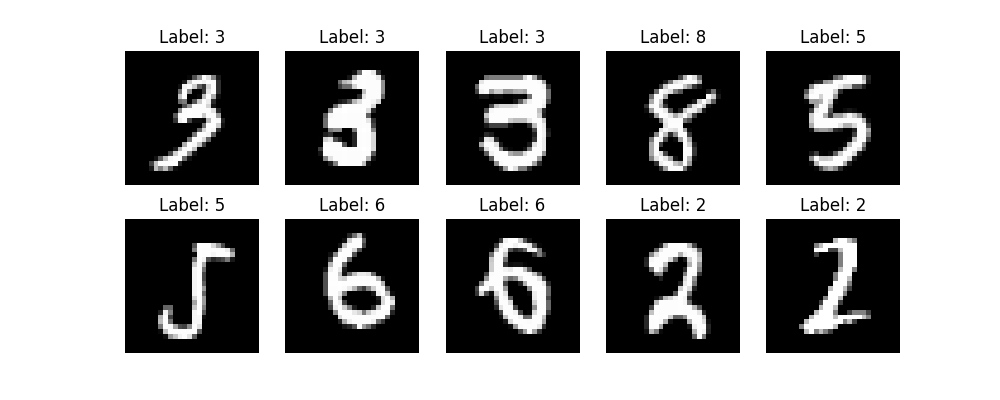
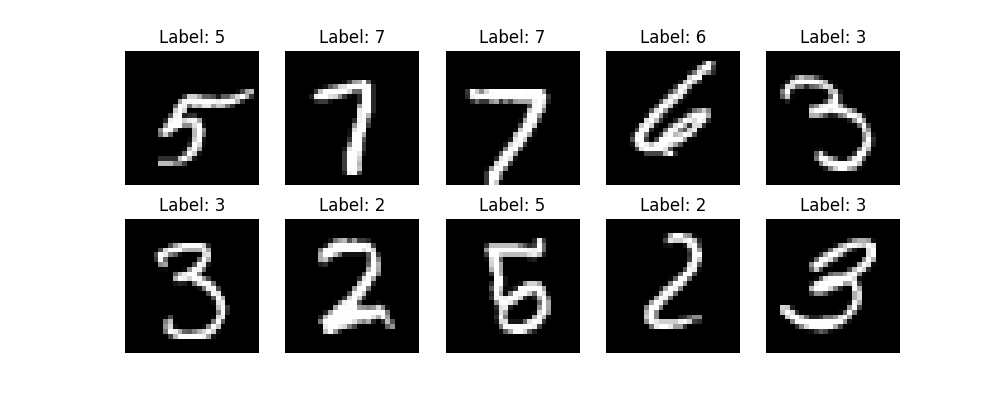
fin autoencodeur classique

diff --git a/auto_encoder_class.py b/auto_encoder_class.py
@@ -3,38 +3,28 @@ import matplotlib.pyplot as plt
 import torch
 
 class AutoEncoder:
-    def __init__(self, input_dim, hidden_dim, encode_layers=0, decode_layers=0):
-        self.input_dim = input_dim
-        self.hidden_dim = hidden_dim
+    def __init__(self, input_dim, hidden_dim, encode_layers=1, decode_layers=1):
         self.encode_layers = encode_layers
         self.decode_layers = decode_layers
-        
+        self.encode_dims = np.linspace(input_dim, hidden_dim, encode_layers + 1,dtype=int)
+        self.decode_dims = np.linspace(hidden_dim, input_dim, decode_layers + 1,dtype=int)
+    
         # Initialisation des paramètres 
-        scale = np.sqrt(2.0 / input_dim) # centrage
-
-        # Parametres d'input
-        self.input_parameter = (torch.randn(self.input_dim, self.hidden_dim) * scale).clone().detach().requires_grad_(True)
-        self.input_bias = torch.zeros((self.hidden_dim,), requires_grad=True)
-
-        # Parametres d'output
-        self.output_parameter = (torch.randn(self.hidden_dim, self.input_dim) * scale).clone().detach().requires_grad_(True)
-        self.output_bias = torch.zeros((self.input_dim,), requires_grad=True)
+        scale_encode = np.sqrt(2.0 / self.encode_dims) # centrage
+        scale_decode = np.sqrt(2.0 / self.decode_dims)
         
         # Parametres des autres couches 
-        self.encode_parameters = [(torch.randn(self.hidden_dim, self.hidden_dim)* scale).clone().detach().requires_grad_(True)
-                                   for _ in range(self.encode_layers)]
-        self.encode_bias = [torch.zeros((self.hidden_dim,), requires_grad=True) 
-                           for _ in range(self.encode_layers)]
-        self.decode_parameters = [(torch.randn(self.hidden_dim, self.hidden_dim)* scale).clone().detach().requires_grad_(True)
-                                   for _ in range(self.decode_layers)]
-        self.decode_bias = [torch.zeros((self.hidden_dim,), requires_grad=True) 
-                           for _ in range(self.decode_layers)]
+        self.encode_parameters = [(torch.randn(self.encode_dims[i], self.encode_dims[i+1])* scale_encode[i]).clone().detach().requires_grad_(True)
+                                for i in range(self.encode_layers)]
+        self.encode_bias = [torch.zeros((self.encode_dims[i+1],), requires_grad=True) 
+                        for i in range(self.encode_layers)]
+        self.decode_parameters = [(torch.randn(self.decode_dims[i], self.decode_dims[i+1])* scale_decode[i]).clone().detach().requires_grad_(True)
+                                for i in range(self.decode_layers)]
+        self.decode_bias = [torch.zeros((self.decode_dims[i+1],), requires_grad=True) 
+                        for i in range(self.decode_layers)]
         
         # Collecter tous les paramètres
-        self.params = [
-            self.input_parameter, self.input_bias,
-            self.output_parameter, self.output_bias
-        ]
+        self.params = []
         self.params.extend(self.encode_parameters)
         self.params.extend(self.encode_bias)
         self.params.extend(self.decode_parameters)
@@ -56,16 +46,15 @@ class AutoEncoder:
     # Encode -> compression des données
     def encode(self, X, activation_function=torch.relu):
         X = X.to(torch.float32)
-        X = activation_function(torch.matmul(X, self.input_parameter) + self.input_bias)
         for i in range(self.encode_layers):
             X = activation_function(torch.matmul(X, self.encode_parameters[i]) + self.encode_bias[i])
         return X
     
     # Decode -> Retranscription des données
     def decode(self, X, activation_function=torch.relu):
-        for i in range(self.decode_layers):
+        for i in range(self.decode_layers-1):
             X = activation_function(torch.matmul(X, self.decode_parameters[i]) + self.decode_bias[i])
-        X = torch.sigmoid(torch.matmul(X, self.output_parameter) + self.output_bias)
+        X = torch.sigmoid(torch.matmul(X, self.decode_parameters[-1]) + self.decode_bias[-1])
         return X
 
     # Forward pass complete
@@ -151,10 +140,18 @@ class AutoEncoder:
             **kwargs: arguments supplémentaires pour l'optimiseur
         """
         
+        n = X.shape[0]
+        chunk_nb = n // kwargs.get('batch_size' , 200)
+        chunks = torch.chunk(X, chunk_nb)
+
         for epoch in range(epochs):
             # Forward pass
-            X_pred = self.forward(X)
-            loss = self.mse_loss(X_pred, X)
+            indice = np.random.randint(chunk_nb)
+
+            X_batched = chunks[indice]
+
+            X_pred_batched = self.forward(X_batched)
+            loss = self.mse_loss(X_pred_batched, X_batched)
             
             # Backward pass
             loss.backward()

diff --git a/test_data_MNIST.py b/test_data_MNIST.py
@@ -35,14 +35,14 @@ for i in range(10):
 
 plt.savefig("mnist_images.png")  
 
-ae = AutoEncoder(input_dim=784, hidden_dim=36, encode_layers=1, decode_layers=1)  # Créer une instance de l'autoencodeur
+ae = AutoEncoder(input_dim=784, hidden_dim=36, encode_layers=3, decode_layers=3)  # Créer une instance de l'autoencodeur
 
 X_train = mnist_train.data
 X_train = X_train.reshape(-1, 784) / 255  # Reshape les données d'entraînement pour qu'elles soient compatibles avec l'autoencodeur
 X_test = mnist_test.data
 X_test = X_test.reshape(-1, 784) / 255
 
-ae.train(X_train,0.005,5000)  # Entraîner l'autoencodeur sur les données d'entraînement
+ae.train(X_train,0.001,100001)  # Entraîner l'autoencodeur sur les données d'entraînement
 
 # Test l'autoencodeur sur des données de test
 m = int(5)
